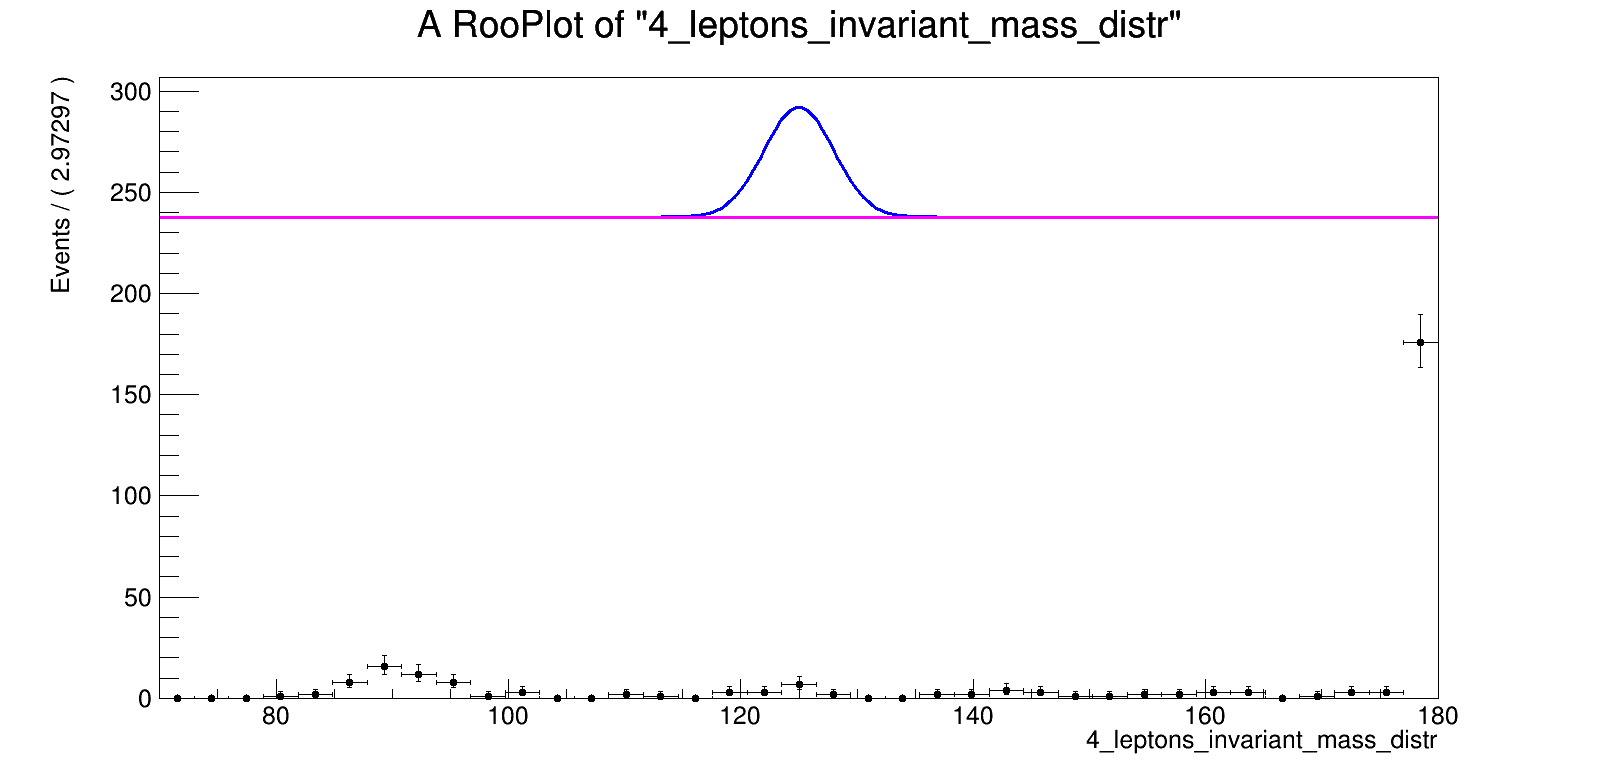
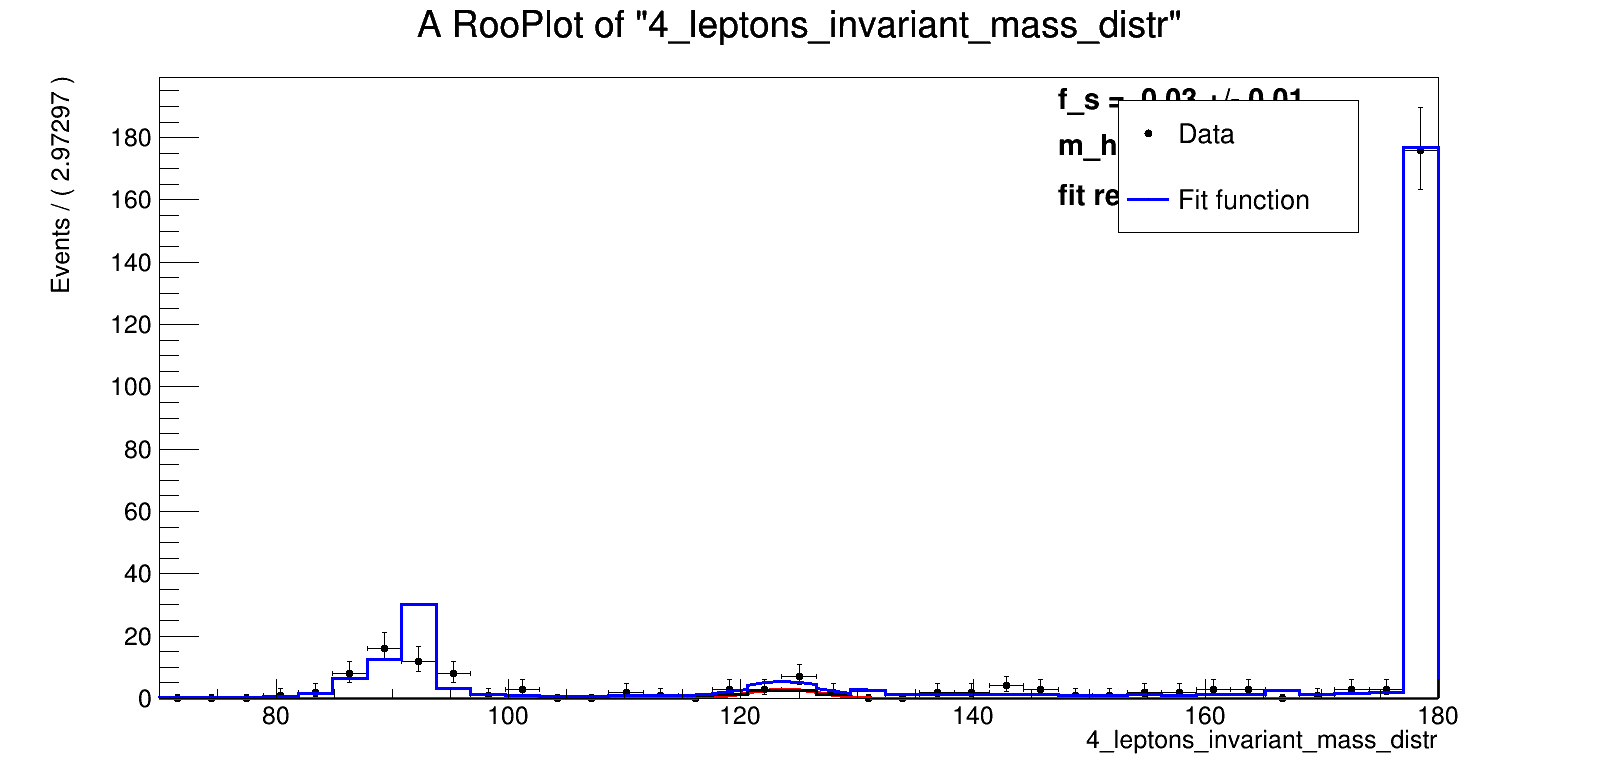
RooHistPdf finally working :')

diff --git a/higgs_CMS.cpp b/higgs_CMS.cpp
@@ -3,6 +3,7 @@
 #endif
 
 #include "RooDataHist.h"
+#include "RooHistPdf.h"
 #include "RooFitResult.h"
 #include "RooGaussian.h"
 #include "RooPlot.h"
@@ -19,24 +20,15 @@ using namespace RooFit;
 using namespace RooStats;
 
 int higgs_CMS() {
-    //Declaring the observables
+    //Declaring the observable
     RooRealVar inv_mass ("inv_mass", "4_leptons_invariant_mass_distr", 70., 180.);
     inv_mass.setBins(37);
 
-    RooRealVar ttbar ("ttbar", "ttbar_decay", 70., 180.);
-    ttbar.setBins(37);
-
-    RooRealVar ZZ ("ZZ", "ZZ_decay", 70., 180.);
-    ZZ.setBins(37);
-
-    RooRealVar DY ("DY", "DY_decay", 70., 180.);
-    DY.setBins(37);
-
     // Importing the data
-    RooDataHist inv_mass_dh("inv_mass_dh", "histo_inv_mass", inv_mass);  
-    RooDataHist ttbar_dh("ttbar_dh", "histo_ttbar", ttbar);  
-    RooDataHist ZZ_dh("ZZ_dh", "histo_ZZ", ZZ);  
-    RooDataHist DY_dh("DY_dh", "histo_DY", DY);  
+    RooDataHist inv_mass_dh ("inv_mass_dh", "histo_inv_mass", inv_mass);
+    RooDataHist ttbar_dh("ttbar_dh", "histo_ttbar", inv_mass);  
+    RooDataHist ZZ_dh("ZZ_dh", "histo_ZZ", inv_mass);  
+    RooDataHist DY_dh("DY_dh", "histo_DY", inv_mass);  
 
     ifstream f1("_cms_higgs_data.txt");
     Double_t v, w; // basterebbe una dichiarazione, poi cambiano sempre valore, anche per nome file
@@ -49,38 +41,48 @@ int higgs_CMS() {
     ifstream f2("_cms_higgs_TTbarto4l.txt");
     while(!f2.eof()) {
         f2 >> v >> w;
-        ttbar.setVal(v);
-        ttbar_dh.set(ttbar, w);
+        inv_mass.setVal(v);
+        ttbar_dh.set(inv_mass, w);
     }
   
     ifstream f3("_cms_higgs_ZZto4l.txt");
     while(!f3.eof()) {
         f3 >> v >> w;
-        ZZ.setVal(v);
-        ZZ_dh.set(ZZ, w);
+        inv_mass.setVal(v);
+        ZZ_dh.set(inv_mass, w);
     }
 
     ifstream f4("_cms_higgs_DYto4l.txt");
     while(!f4.eof()) {
         f4 >> v >> w;
-        DY.setVal(v);
-        DY_dh.set(DY, w);
+        inv_mass.setVal(v);
+        DY_dh.set(inv_mass, w);
     }
     
     //Building background distributions from data
-    RooHistPdf hpdf_ttbar("hpdf_ttbar", "histpdf_ttbar", ttbar, ttbar_dh, 0);
-    RooHistPdf hpdf_ZZ("hpdf_ZZ", "histpdf_ZZ", ZZ, ZZ_dh, 0);
-    RooHistPdf hpdf_DY("hpdf_DY", "histpdf_DY", DY, DY_dh, 0);
+    RooHistPdf hpdf_ttbar("hpdf_ttbar", "histpdf_ttbar", inv_mass, ttbar_dh);
+    RooHistPdf hpdf_ZZ("hpdf_ZZ", "histpdf_ZZ", inv_mass, ZZ_dh);
+    RooHistPdf hpdf_DY("hpdf_DY", "histpdf_DY", inv_mass, DY_dh);
 
     // Building the composite not extended model for background
     // Defining the fraction to be proportional to the relative weight of the histogram over the obs range
     // via histo integral
-    RooRealVar f_ttbar ("f_ttbar", "fraction_bkg_ttbar", ttbar_dh.sum(kTRUE) / (180. - 70.), 0., 1.); //vedo se mettere intervallo
+    RooRealVar f_ttbar ("f_ttbar", "fraction_bkg_ttbar", ttbar_dh.sum(kTRUE) / (180. - 70.), 0., 1.); 
     f_ttbar.setConstant();
     RooRealVar f_DY ("f_DY", "fraction_bkg_DY", DY_dh.sum(kTRUE) / (180. - 70.), 0., 1.);
     f_DY.setConstant();
 
+
     RooAddPdf bkg_model ("bkg_model", "background_model", RooArgList(hpdf_ttbar, hpdf_DY, hpdf_ZZ), RooArgList(f_ttbar, f_DY));
+    RooPlot *higgs1 = inv_mass.frame();
+    ttbar_dh.plotOn(higgs1, Name("Data"));
+    bkg_model.plotOn(higgs1, Name("Model Fit")); 
+    bkg_model.plotOn(higgs1, Components(hpdf_ttbar), LineColor(kViolet-1), Name("tt"));
+    bkg_model.plotOn(higgs1, Components(hpdf_DY), LineColor(kViolet-1), Name("dy"));
+    bkg_model.plotOn(higgs1, Components(hpdf_ZZ), LineColor(kMagenta), Name("zz"));
+
+    TCanvas *c = new TCanvas("c", "HIGGS", 1600, 800);
+    higgs1->Draw();
 
     // Building signal + background model
     RooRealVar m_higgs ("m_higgs", "Higgs_mass", 125., 110., 140);
@@ -89,20 +91,55 @@ int higgs_CMS() {
     RooGaussian gaus_higgs ("gaus_higgs", "higgs_signal_distr", inv_mass, m_higgs, sigma_higgs);
     RooAddPdf model ("model", "Higgs_composite_model", RooArgList(gaus_higgs, bkg_model), f_s);
 
-    // Fitting and plotting
-    //model.fitTo(inv_mass_dh);
+    // Fitting, saving fit values and plotting
+    RooFitResult * result = model.fitTo(inv_mass_dh, Save());
 
     RooPlot *higgs = inv_mass.frame();
     inv_mass_dh.plotOn(higgs, Name("Data"));
+    model.plotOn(higgs, Components(gaus_higgs), LineColor(kRed), Name("gaus"));
+    model.plotOn(higgs, Components(bkg_model), LineColor(kBlack), Name("bkg"));
     model.plotOn(higgs, Name("Model Fit")); 
-    model.plotOn(higgs, Components(gaus_higgs), LineColor(kViolet-1), Name("gaus"));
-    model.plotOn(higgs, Components(bkg_model), LineColor(kMagenta), Name("bkg"));
+
+    //Best fit parameters
+    model.paramOn(higgs, Label("fit result"), Format("NE",AutoPrecision(1)));
 
     TCanvas *c1 = new TCanvas("c1", "HIGGS", 1600, 800);
     higgs->Draw();
-    c1->Print("higgs.png");       
+
+    TLegend *leg1 = new TLegend(0.70, 0.70, 0.85, 0.87);
+    leg1->SetFillColor(kWhite);
+    leg1->SetLineColor(kBlack);
+    leg1->AddEntry("Data", "Data", "P");
+    leg1->AddEntry("Model Fit", "Fit function", "LP");
+   
+    leg1->Draw("SAME");
+    c1->Print("higgs.png");    
+
+   // result->Print("v"); 
+
+    //Writing fit results to txt file 
+    ofstream myfile;
+    myfile.open("minos_fit.txt");
+    result->printMultiline(myfile, 1111, kTRUE);
+    myfile.close();
 
 
+
+    // Creating the ModelConfig for the 95% confidence interval
+    RooWorkspace w("w");
+
+    ModelConfig mc("ModelConfig", &w);
+
+    w.import(model);
+    mc.SetParametersOfInterest(RooArgList(*w.var("model"), *w.var("inv_mass"), *w.var("m_higgs")));
+    mc.SetNuiscanceParameters(*w.var(f_s));
+    w.import(mc);
+
+    // Direi che non servono con macro root apposta
+    // RooAbsReal* ll = model.createNLL(inv_mass_dh);
+    // RooAbsReal* pll = ll->createProfile(m_higgs);
+
+    w.writeToFile("higgs_CMS.root", true);
 
     return 0;
 }

diff --git a/prova.C b/prova.C
@@ -1,0 +1,85 @@
+#ifndef __CINT__
+#include "RooGlobalFunc.h"
+#endif
+
+#include "RooDataHist.h"
+#include "RooHistPdf.h"
+#include "RooFitResult.h"
+#include "RooGaussian.h"
+#include "RooPlot.h"
+#include "RooRealVar.h"
+#include "TAxis.h"
+#include "TCanvas.h"
+#include "TFile.h"
+#include "TH2.h"
+#include "TStyle.h"
+
+#include <iostream>
+
+using namespace RooFit;
+using namespace RooStats;
+
+int prova() {
+    //Declaring the observable
+    RooRealVar inv_mass ("inv_mass", "4_leptons_invariant_mass_distr", 70., 180.);
+    inv_mass.setBins(37);
+    
+    // Importing the data
+    RooDataHist inv_mass_dh ("inv_mass_dh", "histo_inv_mass", inv_mass);
+    RooDataHist ttbar_dh("ttbar_dh", "histo_ttbar", inv_mass);  //STESSA VARIABILE PER TUTTI
+    RooDataHist ZZ_dh("ZZ_dh", "histo_ZZ", inv_mass);  
+    RooDataHist DY_dh("DY_dh", "histo_DY", inv_mass); 
+
+    //ttbar_dh.SumW2Error(kTRUE);
+
+    ifstream f1("_cms_higgs_data.txt");
+    Double_t v, w;
+    while(!f1.eof()) {
+        f1 >> v >> w;
+        inv_mass.setVal(v);
+        inv_mass_dh.set(inv_mass, w);
+    }
+
+    ifstream f2("_cms_higgs_TTbarto4l.txt");
+    while(!f2.eof()) {
+        f2 >> v >> w;
+        inv_mass.setVal(v);
+        ttbar_dh.set(inv_mass, w);
+    }
+
+    ifstream f3("_cms_higgs_ZZto4l.txt");
+    while(!f3.eof()) {
+        f3 >> v >> w;
+        inv_mass.setVal(v);
+        ZZ_dh.set(inv_mass, w);
+    }
+
+    ifstream f4("_cms_higgs_DYto4l.txt");
+    while(!f4.eof()) {
+        f4 >> v >> w;
+        inv_mass.setVal(v);
+        DY_dh.set(inv_mass, w);
+    }  
+    
+    //Building background distributions from data
+    RooHistPdf hpdf_ttbar("hpdf_ttbar", "histpdf_ttbar", inv_mass, ttbar_dh);
+    RooHistPdf hpdf_ZZ("hpdf_ZZ", "histpdf_ZZ", inv_mass, ZZ_dh);
+    RooHistPdf hpdf_DY("hpdf_DY", "histpdf_DY", inv_mass, DY_dh);
+
+    // Building the composite not extended model for background
+    // Defining the fraction to be proportional to the relative weight of the histogram over the obs range
+    // via histo integral
+    RooRealVar f_ttbar ("f_ttbar", "fraction_bkg_ttbar", ttbar_dh.sum(kTRUE) / (180. - 70.), 0., 1.); 
+    f_ttbar.setConstant();
+    RooRealVar f_DY ("f_DY", "fraction_bkg_DY", DY_dh.sum(kTRUE) / (180. - 70.), 0., 1.);
+    f_DY.setConstant();
+
+    RooAddPdf bkg_model ("bkg_model", "background_model", RooArgList(hpdf_ttbar, hpdf_DY, hpdf_ZZ), RooArgList(f_ttbar, f_DY));
+
+    RooPlot *higgs = inv_mass.frame();
+    bkg_model.plotOn(higgs);
+
+    higgs->Draw();
+    
+    return 0;
+}

diff --git a/tut.C b/tut.C
@@ -1,0 +1,69 @@
+#include "RooDataSet.h"
+#include "RooGaussian.h"
+#include "RooHistPdf.h"
+#include "RooPlot.h"
+#include "RooPolynomial.h"
+#include "RooRealVar.h"
+#include "TAxis.h"
+#include "TCanvas.h"
+using namespace RooFit;
+
+void rf706_histpdf() {
+  // C r e a t e   p d f   f o r   s a m p l i n g
+  // ---------------------------------------------
+
+  RooRealVar x("x", "x", 70., 180.);
+  RooPolynomial p("p", "p", x, RooArgList(0.01, -0.01, 0.0004));
+
+  RooRealVar weight("weight", "weight", 0., 10.);
+  weight.setBins(37);
+
+  // C r e a t e   l o w   s t a t s   h i s t o g r a m
+  // ---------------------------------------------------
+
+  // Sample 500 events from p
+  x.setBins(37);
+  // std::unique_ptr<RooDataSet> data1{p.generate(x, 500)};
+  RooDataSet* data1 = RooDataSet::read("_cms_higgs_TTbarto4l.txt", RooArgList(x, weight), "v");
+
+  // Create a binned dataset with 20 bins and 500 events
+  RooDataHist *hist1 = data1->binnedClone();
+
+  // Represent data in dh as pdf in x
+  RooHistPdf histpdf1("histpdf1", "histpdf1", x, *hist1, 0);
+
+  // Plot unbinned data and histogram pdf overlaid
+  RooPlot *frame1 = x.frame(Title("Low statistics histogram pdf"), Bins(100));
+  data1->plotOn(frame1);
+  histpdf1.plotOn(frame1);
+
+  // C r e a t e   h i g h   s t a t s   h i s t o g r a m
+  // -----------------------------------------------------
+
+  // Sample 100000 events from p
+  x.setBins(10);
+  std::unique_ptr<RooDataSet> data2{p.generate(x, 100000)};
+
+  // Create a binned dataset with 10 bins and 100K events
+  RooDataHist *hist2 = data2->binnedClone();
+
+  // Represent data in dh as pdf in x, apply 2nd order interpolation
+  RooHistPdf histpdf2("histpdf2", "histpdf2", x, *hist2, 2);
+
+  // Plot unbinned data and histogram pdf overlaid
+  RooPlot *frame2 =
+      x.frame(Title("High stats histogram pdf with interpolation"), Bins(100));
+  data2->plotOn(frame2);
+  histpdf2.plotOn(frame2);
+
+  TCanvas *c = new TCanvas("rf706_histpdf", "rf706_histpdf", 800, 400);
+  c->Divide(2);
+  c->cd(1);
+  gPad->SetLeftMargin(0.15);
+  frame1->GetYaxis()->SetTitleOffset(1.4);
+  frame1->Draw();
+  c->cd(2);
+  gPad->SetLeftMargin(0.15);
+  frame2->GetYaxis()->SetTitleOffset(1.8);
+  frame2->Draw();
+}

diff --git a/README.md b/README.md
@@ -1,2 +1,3 @@
 First commit <br/>
 First part of OPERA is complete <br/>
+RooHistPDF finally working <br/>
